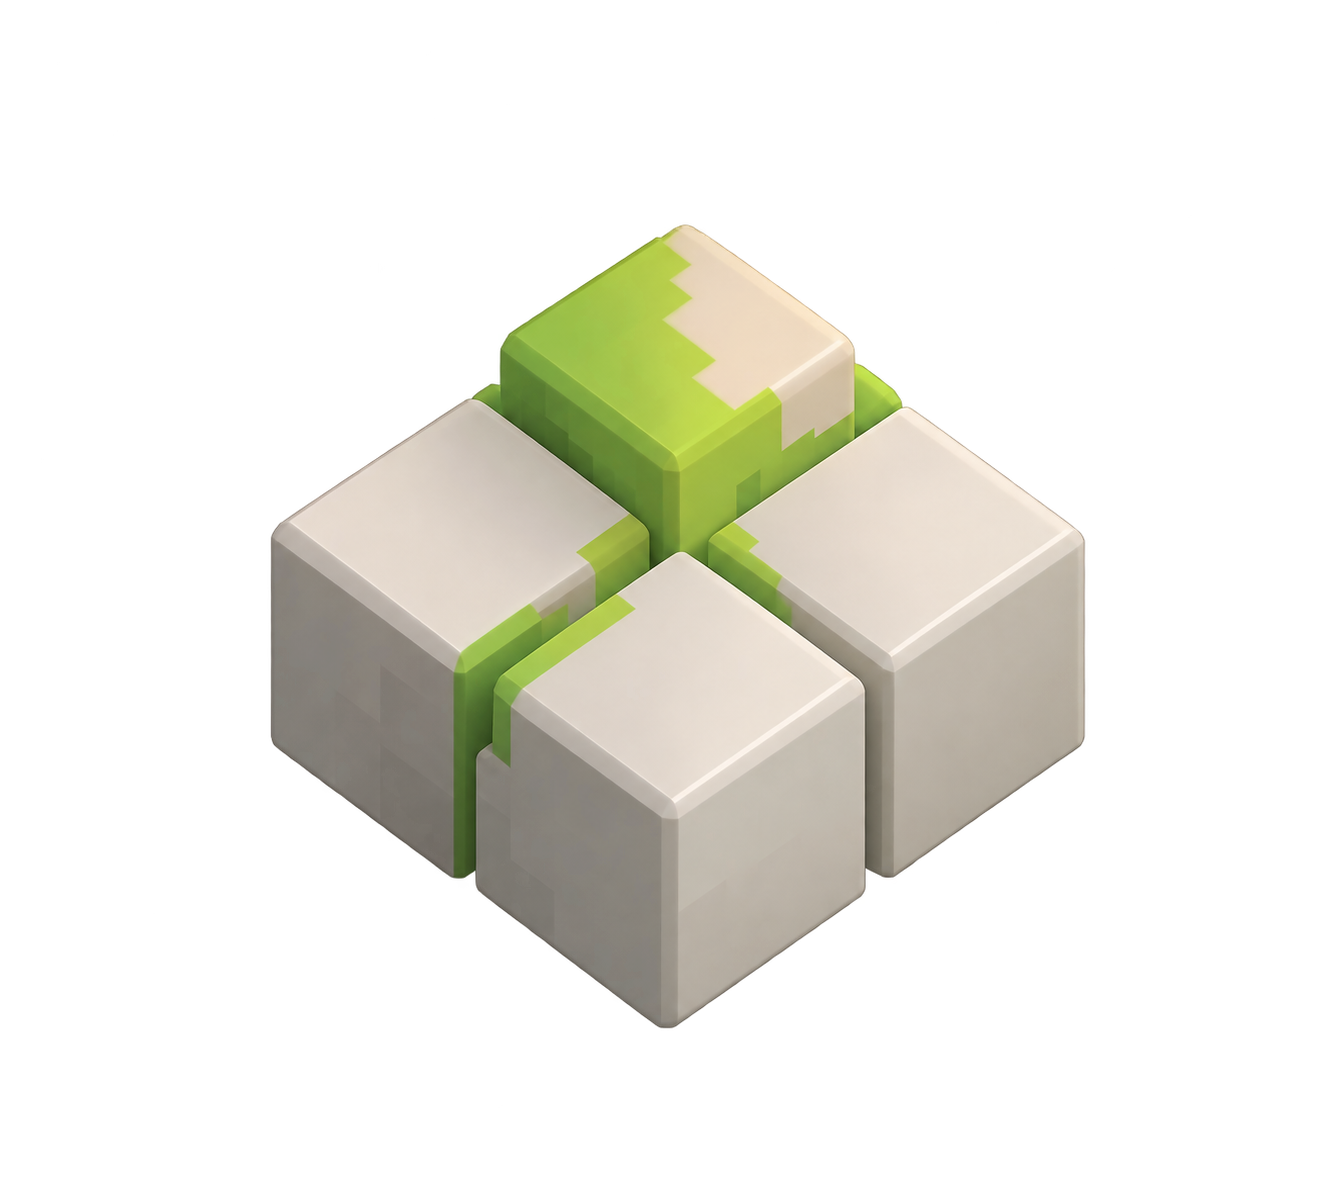
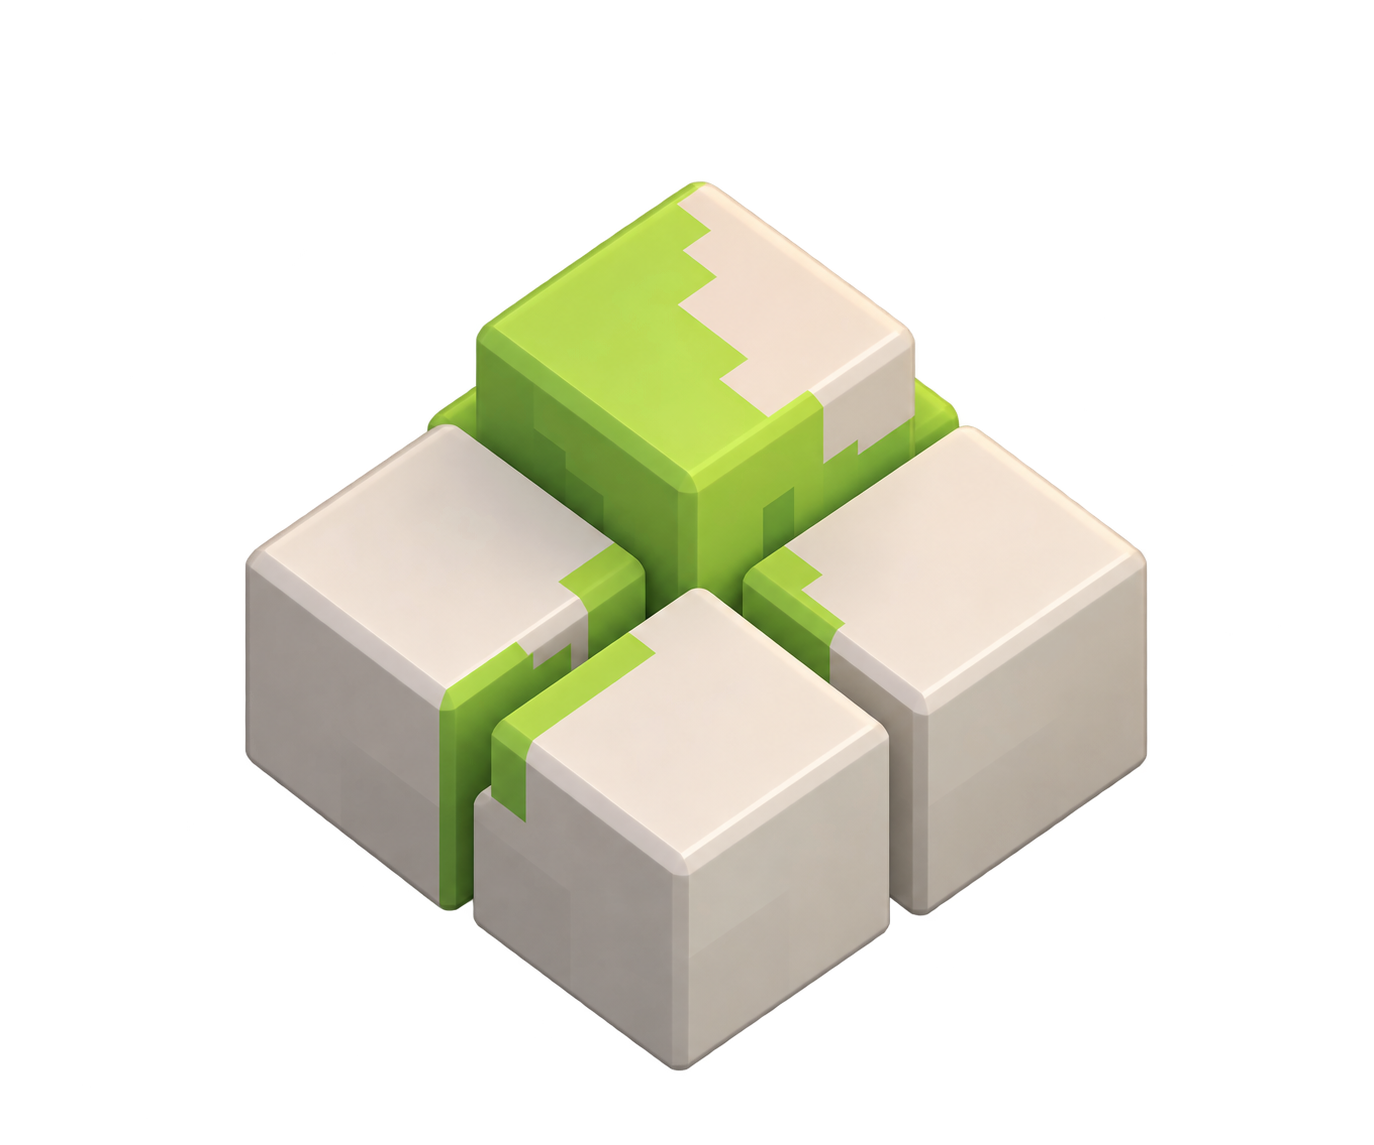
nodos terminados

Changed region(s): [[0.1539, 0.1528, 0.8619, 0.9476]]

diff --git a/src/modulos/senderos/componentes/mapa/PedestalNodo.tsx b/src/modulos/senderos/componentes/mapa/PedestalNodo.tsx
@@ -1,8 +1,11 @@
 import { BlurMask, Canvas, Group, Path as PathSkia } from '@shopify/react-native-skia';
-import { StyleSheet } from 'react-native';
-import { Defs, Ellipse, LinearGradient, Path, Stop, Svg } from 'react-native-svg';
+import { Animated, StyleSheet } from 'react-native';
+import { Defs, Ellipse, LinearGradient, Path, RadialGradient, Stop, Svg } from 'react-native-svg';
 
 import { rotarPaletaHex } from '../../algoritmo/colorHsl';
+
+const AnimatedEllipse = Animated.createAnimatedComponent(Ellipse);
+type ValorAnimado = Animated.Value | Animated.AnimatedInterpolation<number>;
 
 // El acento de blur del diseño de Figma (una línea difuminada bajo el botón)
 // SÍ se puede lograr con blur real: react-native-svg trae <Filter>/
@@ -37,7 +40,7 @@ function AcentoBlur({ color, tamano }: { color: string; tamano: number }) {
 const REFERENCIA_HUE = '#21A844';
 const PALETA_BASE = ['#B4DC9B', '#DEFCDD', '#B2EEB1', '#44B042', '#248723', '#53C35D', '#21A844', '#69C068', '#28A116'] as const;
 
-export function PedestalBase({ color, tamano = 84 }: { color: string; tamano?: number }) {
+export function PedestalBase({ color, oscurecimiento, tamano = 84 }: { color: string; oscurecimiento?: ValorAnimado; tamano?: number }) {
   const [pedestalSolido, pedestalClaro, pedestalOscuro, botonMedioClaro, botonMedioOscuro, , , strokeEllipse, lineaBlur] =
     rotarPaletaHex(PALETA_BASE, REFERENCIA_HUE, color);
 
@@ -66,9 +69,19 @@ export function PedestalBase({ color, tamano = 84 }: { color: string; tamano?: n
             <Stop offset="0.782899" stopColor={botonMedioClaro} />
             <Stop offset="1" stopColor={botonMedioOscuro} />
           </LinearGradient>
+          <RadialGradient cx="50%" cy="50%" id="sombraPresionadoGrad" r="50%">
+            <Stop offset="0%" stopColor="#0B5C30" stopOpacity={1} />
+            <Stop offset="100%" stopColor="#66C27A" stopOpacity={0.35} />
+          </RadialGradient>
         </Defs>
         <Ellipse cx={151} cy={130} fill="url(#botonTopeGrad)" rx={150.5} ry={129.5} stroke="white" strokeOpacity={0.2} />
         <Ellipse cx={151} cy={136.5} fill="url(#botonMedioGrad)" rx={119.5} ry={100} stroke={strokeEllipse} strokeWidth={2} />
+        {/* Degradado radial EXACTO sobre botonMedioGrad — verde oscuro al
+            centro, más suave en el borde — sube de opacidad al presionar
+            (ver NodoSendero.tsx) en vez de un overlay negro plano. */}
+        {oscurecimiento !== undefined && (
+          <AnimatedEllipse cx={151} cy={136.5} fill="url(#sombraPresionadoGrad)" opacity={oscurecimiento} rx={119.5} ry={100} />
+        )}
       </Svg>
     </>
   );
@@ -90,7 +103,7 @@ export function PedestalBotonSuperior({ color, tamano = 84 }: { color: string; t
           ambas exactamente) esta elipse queda concéntrica y más pequeña que
           la oscura, dejando un borde parejo de la oscura visible alrededor —
           una encima de la otra, no tapándola por completo. */}
-      <Ellipse cx={151} cy={119} fill="url(#botonSuperiorGrad)" rx={112} ry={92.5} stroke="white" strokeOpacity={0.2} />
+      <Ellipse cx={151} cy={119} fill="url(#botonSuperiorGrad)" rx={114} ry={94.5} stroke="white" strokeOpacity={0.2} />
     </Svg>
   );
 }

diff --git a/src/modulos/senderos/componentes/mapa/NodoSendero.tsx b/src/modulos/senderos/componentes/mapa/NodoSendero.tsx
@@ -23,7 +23,7 @@ const TAMANO_PEDESTAL = 84;
 // (oscura) en el lienzo original de 302x303. Este desplazamiento las centra
 // exactamente una encima de la otra al presionar — como es más chica, queda
 // un borde parejo de la oscura visible alrededor, no tapada por completo.
-const DESPLAZAMIENTO_PRESS = 17.5 * (TAMANO_PEDESTAL / 307);
+const DESPLAZAMIENTO_PRESS = 21.5 * (TAMANO_PEDESTAL / 307);
 
 export function NodoSendero({ Icono, asentado, color, estado, onCompletar, onPress, escalaEscena = 1, seleccionado }: NodoSenderoProps) {
   const halo = useRef(new Animated.Value(0)).current;
@@ -46,7 +46,7 @@ export function NodoSendero({ Icono, asentado, color, estado, onCompletar, onPre
 
   useEffect(() => {
     Animated.timing(asentamiento, {
-      duration: asentado ? 260 : 430,
+      duration: asentado ? 140 : 220,
       easing: Easing.out(Easing.cubic),
       toValue: asentado ? 1 : 0,
       useNativeDriver: true,
@@ -58,6 +58,9 @@ export function NodoSendero({ Icono, asentado, color, estado, onCompletar, onPre
   // deja intacto el alto (ry/translateY) que ya se calibró para que la
   // elipse clara caiga bien sobre la oscura al presionar.
   const escalaX = profundidad.interpolate({ inputRange: [0, 1], outputRange: [1, 0.93] });
+  // Oscurece la elipse oscura (el "socket") ~20% mientras está presionada —
+  // overlay negro semitransparente, ver PedestalBase en PedestalNodo.tsx.
+  const oscurecimientoMedio = profundidad.interpolate({ inputRange: [0, 1], outputRange: [0, 0.2] });
   const descensoBase = profundidad.interpolate({ inputRange: [0, 1], outputRange: [0, DESPLAZAMIENTO_PRESS] });
   const descensoInspeccion = inspeccion.interpolate({ inputRange: [0, 1], outputRange: [0, 4] });
   const descenso = Animated.add(descensoBase, descensoInspeccion);
@@ -104,7 +107,7 @@ export function NodoSendero({ Icono, asentado, color, estado, onCompletar, onPre
             colores saturados (+ el ícono real, dinámico según el paso,
             montado encima) recibe el efecto press (translateY/scale). */}
         <View style={styles.shell}>
-          {bloqueado ? <PedestalBaseBloqueada tamano={TAMANO_PEDESTAL} /> : <PedestalBase color={color} tamano={TAMANO_PEDESTAL} />}
+          {bloqueado ? <PedestalBaseBloqueada tamano={TAMANO_PEDESTAL} /> : <PedestalBase color={color} oscurecimiento={oscurecimientoMedio} tamano={TAMANO_PEDESTAL} />}
           <Animated.View style={[styles.capaBoton, { transform: [{ translateY: descenso }, { scaleX: escalaX }] }]}>
             {bloqueado ? <PedestalBotonBloqueado tamano={TAMANO_PEDESTAL} /> : <PedestalBotonSuperior color={color} tamano={TAMANO_PEDESTAL} />}
             <View pointerEvents="none" style={styles.iconoContenedor}>
